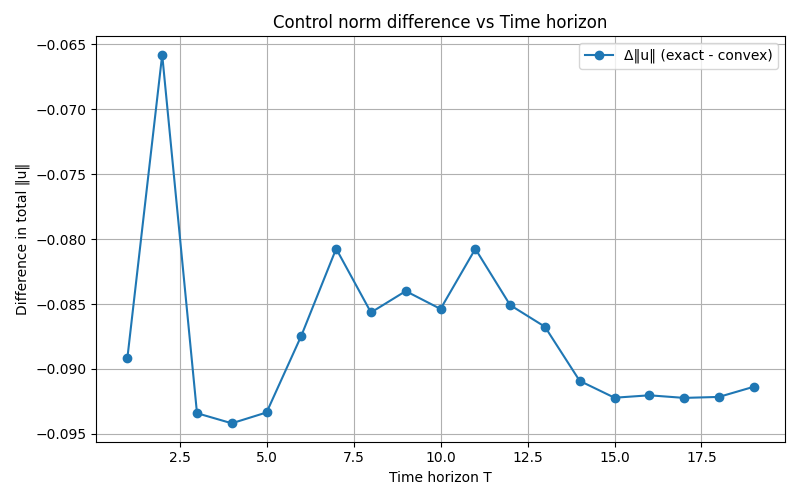
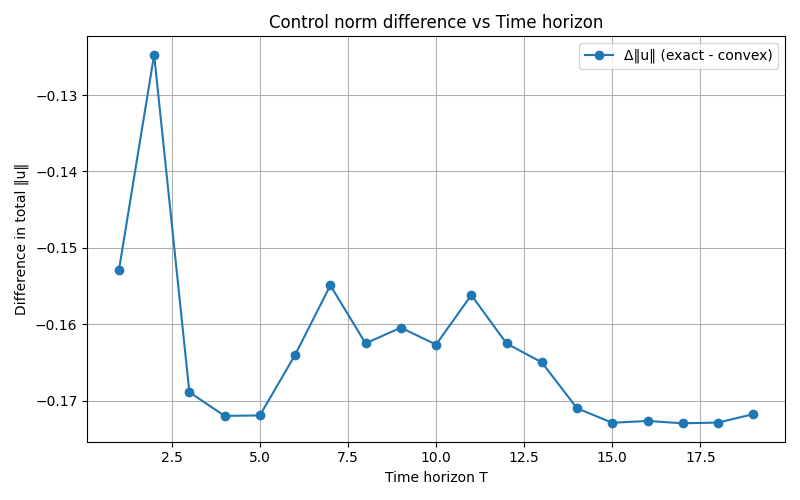
update

diff --git a/chi/gp.py b/chi/gp.py
@@ -1,3 +1,171 @@
 import numpy as np
 import matplotlib.pyplot as plt
+import os
+from scipy.stats import norm
+from datagen import get_system
+import math
+import cvxpy as cp
+import GPy
+#gp code for different scenerios
+
+#1. unknown cost, known model, set of u with dim mT
+#Simple GP regression
+#constraint parameters
+n,m = 2,2
+epsilon = 0.8
+delta = 0.9
+x_0 = np.array([0.0, 0.0])
+
+sigma_0 = np.eye(n) * 0.1
+sigma_w_base = np.eye(n) * 0.1
+q = norm.ppf(1 - delta)
+name = 'stable'
+Q = np.diag([2.0, 1.0])
+
+gp_norm_folder = 'norms_{}'.format(name)
+gp_state_folder = 'states_{}'.format(name)
+gp_diff_folder = 'diffs_{}'.format(name)
+
+
+for t in range(1,3):
+    u = cp.Variable(m*t)
+    u2 = cp.Variable(m*t)
+    A,B, NT = get_system(name, n=2, m=2, T = t, seed=2)
+    U = np.random.randn(m * t, 1)
+
+        # Compute reachable final state
+    x_f = np.linalg.matrix_power(A, t) @ x_0.reshape(-1, 1) + NT @ U
+    x_f =  x_f.reshape(-1)
+
+    # Construct N_T and C_T
+    N_T = np.eye(n)
+    C_T = B
+    for i in range(1, t):
+        N_T = np.hstack((N_T, np.linalg.matrix_power(A, i)))
+        C_T = np.hstack((C_T, np.linalg.matrix_power(A, i) @ B))
+
+    sigma_w = np.eye(n*t) * 0.1
+    sigma_z = np.linalg.matrix_power(A, t) @ sigma_0 @ np.linalg.matrix_power(A, t).T + N_T @ sigma_w @ N_T.T
+    traceSigma = np.trace(sigma_z)
+    tau = 2 * np.trace(sigma_z @ sigma_z)
+    b = (np.linalg.matrix_power(A, t) @ x_0) - x_f
+    b_cheb =  x_f - (np.linalg.matrix_power(A, t) @ x_0) 
+    # convex constraint gamma
+    gamma = epsilon**2 - traceSigma - q * math.sqrt(tau) 
+    r_cheb = epsilon - math.sqrt(traceSigma/delta)    
+    f = cp.quad_form(C_T @ u + b, np.eye(C_T.shape[0]))
+    f2 = cp.norm2((C_T @ u2) - b_cheb)
+    # constraint1 = [f <= gamma]
+    # constraint2 = [f2 <= r_cheb]
+ #----------------------------------------------------------------------------------------------------------------------   
+    #GP-UCB sampling to learn cost using constraint
+
+    def sample_from_ellipsoid(C_T, b, r, num_samples):
+  
+        n, mT = C_T.shape
+
+        # Pseudoinverse and center of ellipsoid
+        C_pinv = np.linalg.pinv(C_T)
+        u_center = C_pinv @ b
+
+        # Orthogonal basis for nullspace (directions with no effect on C_T u)
+        U, S, Vt = np.linalg.svd(C_T)
+        nullspace_basis = Vt.T[:, np.where(S < 1e-10)[0]]  # empty if full rank
+
+        # Approximate covariance (shape matrix)
+        A = C_pinv @ np.eye(n) @ C_pinv.T  # any scaling gives same shape
+
+        # Cholesky factor (or SVD-based)
+        L = np.linalg.cholesky(A + 1e-8 * np.eye(A.shape[0]))
+
+        # Samples on unit ball
+        z = np.random.randn(mT, num_samples)
+        z /= np.linalg.norm(z, axis=0, keepdims=True)
+
+        # Random radii for uniform sampling in ball
+        r_scales = np.random.rand(num_samples) ** (1 / mT)
+        z *= r_scales * r
+
+        # Map to ellipsoid
+        u_samples = u_center.reshape(-1, 1) + L @ z
+
+        return u_samples.T 
+    
+    num_samples = 10
+    
+    def cost(t, u):
+        w = np.random.rand(1)
+        c = []
+        for j in range(0, u.shape[0]):
+            cu = 0
+            for i in range(t+1):
+                if i%m == 0:
+                    cu = cu + (u[j, i: i+m]  @ Q  @ np.transpose(u[j, i:i+m]))
+            cu = cu + w
+            c.append(cu)
+        return(c)
+    u_train = sample_from_ellipsoid(C_T, b, r_cheb, num_samples)
+    print(u_train)
+    y_train = cost(t, u_train)
+    
+    #GP prior
+    mu = np.zeros((num_samples, 1))
+    k = GPy.kern.RBF(m*t, variance = 1., lengthscale = 0.1, name = 'RBF')
+    C = k.K(u_train, u_train)
+    Sigma = C.copy()
+    u_obs = np.empty((0, m*t))
+    y_obs = np.empty((0, 1))
+
+    n = t//2  #training horizon
+
+    beta_t = lambda t: 2 * np.log(num_samples * np.pi**2 * t**2 / (6*0.1)) # idk what is this
+
+    means = {}
+    
+    #training
+    for l in range(0, n+1):
+        std = np.sqrt(np.diag(Sigma)).reshape(-1,1)
+        ucb = mu + np.sqrt(beta_t(l)) * std
+
+        idx = np.argmax(ucb)
+        u_t = u_train[idx, :]
+        u_t = u_t.reshape(-1,1)
+        y_t = cost(t, u_t)
+        
+        #update data
+        u_obs = np.vstack((u_obs, u_t))
+        y_obs = np.vstack((y_obs, y_t))
+
+        #Necessary parameters
+        k_uu = k.K(u_train, u_train) 
+        k_unu = k.K(u_train, u_obs)
+        k_nu = k.K(u_obs, u_obs)
+        k_uu_inv = np.linalg.inv(k_uu)
+
+        mu = k_unu @ k_uu_inv @ y_obs
+        Sigma = C - k_nu @ k_uu_inv @ k_unu.T
+
+        print(np.shape(mu))
+        print(np.shape(Sigma))
+
+        #plot final posterior
+        indices = np.arange(len(u_train[0]))
+        plt.clf()
+        plt.plot(indices, mu, label="Posterior mean", color='blue')
+        plt.fill_between(indices.ravel(), (mu - 1*std).ravel(), (mu + 1*std).ravel(), alpha=0.2, color='blue', label='±2 std')
+        plt.plot(indices, cost(t, u_train), 'r--', label="True function")
+        plt.scatter(u_obs, y_obs, color='black', zorder=5, label="Observations")
+        plt.title("GP-UCB")
+        plt.legend()
+        # plt.grid(True)
+        plt.pause(0.4)
+plt.savefig('updates.jpeg')
+
+        
+    
+    
+
+
+
+
 

diff --git a/chi/chi3.py b/chi/chi3.py
@@ -15,10 +15,10 @@ from plot import opt, diff
 n, m = 2, 2
 x_0 = np.array([0.0, 0.0])
 
-T_list = range(1, 20)  
+T_list = range(1, 2)  
 sigma_0 = np.eye(n) * 0.1
 sigma_w_base = np.eye(n) * 0.1
-epsilon = 0.88
+epsilon = 0.9
 delta = 0.9
 Q = np.diag([2.0, 1.0])
 q = norm.ppf(1 - delta)
